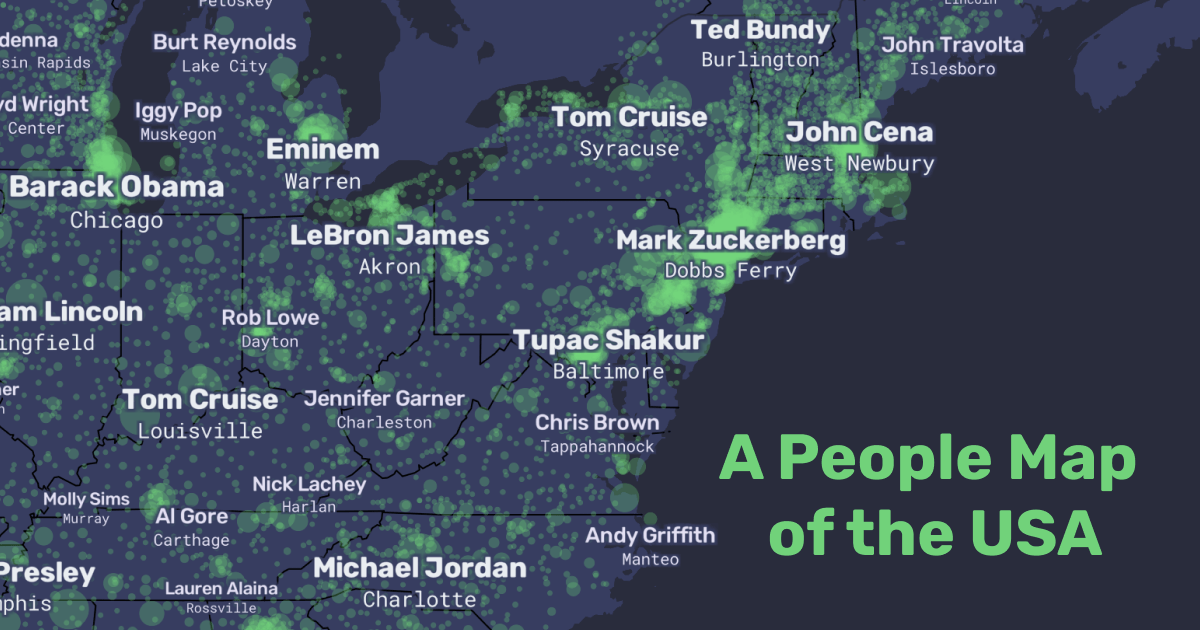
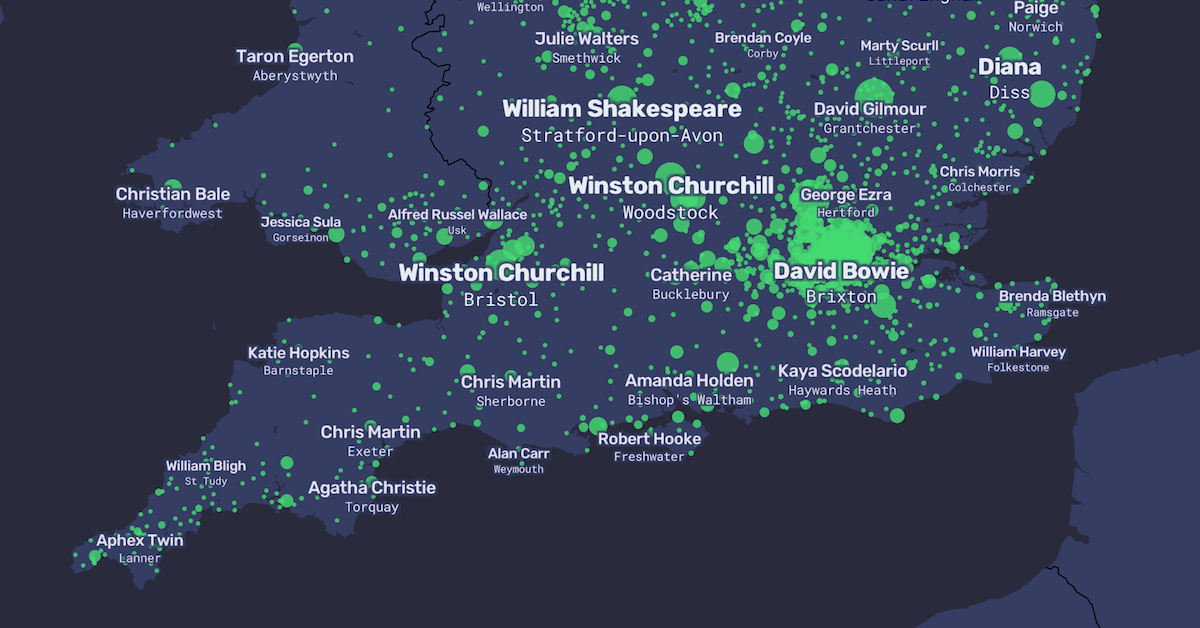
doneish

diff --git a/src/js/graphic.js b/src/js/graphic.js
@@ -116,7 +116,7 @@ function swapText(id) {
     { 'font-scale': 1 },
     '\n',
     {},
-    ['get', 'city'],
+    ['get', 'city_clean'],
     {
       'font-scale': 0.75,
       'text-font': ['literal', ['Roboto Mono Regular', 'Rubik Black']],
@@ -142,7 +142,7 @@ function setupMap() {
   map = new mapboxgl.Map({
     container: 'map',
     style: 'mapbox://styles/dock4242/cjwcr85ha07jg1cnrwue2201q',
-    center: [1.1743, 52.3555],
+    center: [-3.436, 55.3781],
     zoom: 4,
     // maxBounds: [[-180, 0], [-40, 75]],
     maxZoom: 14,
